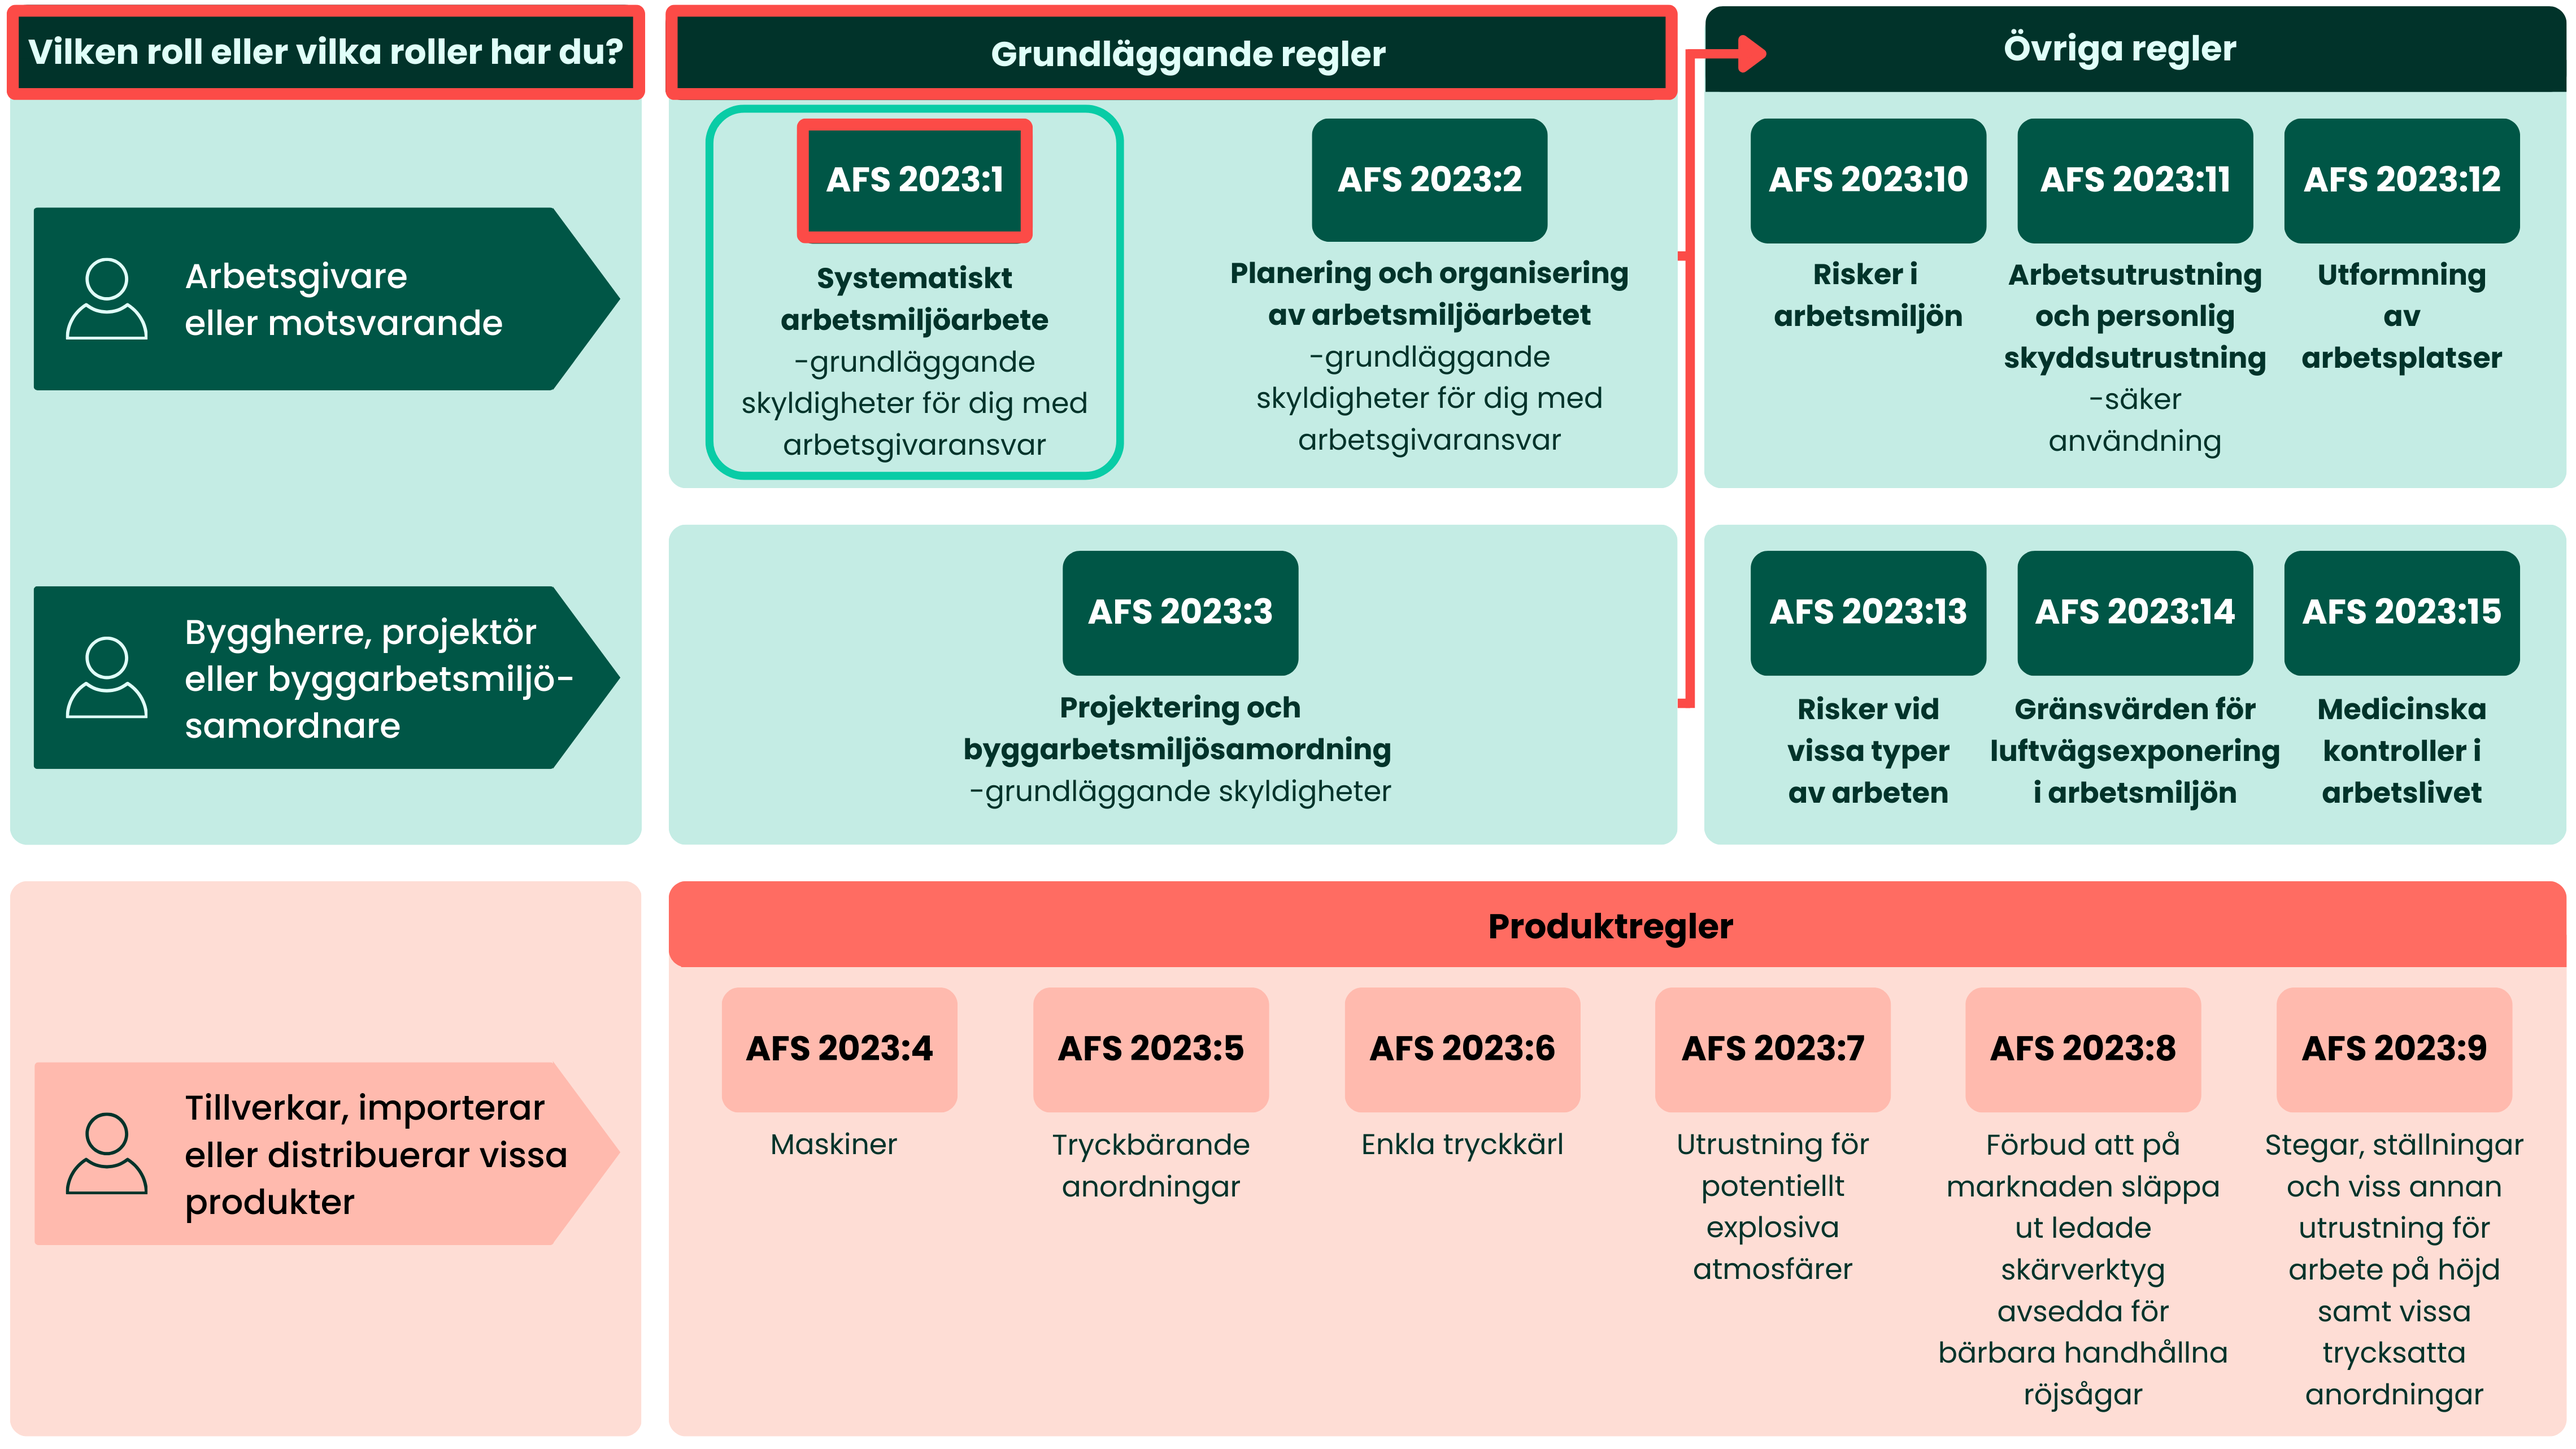
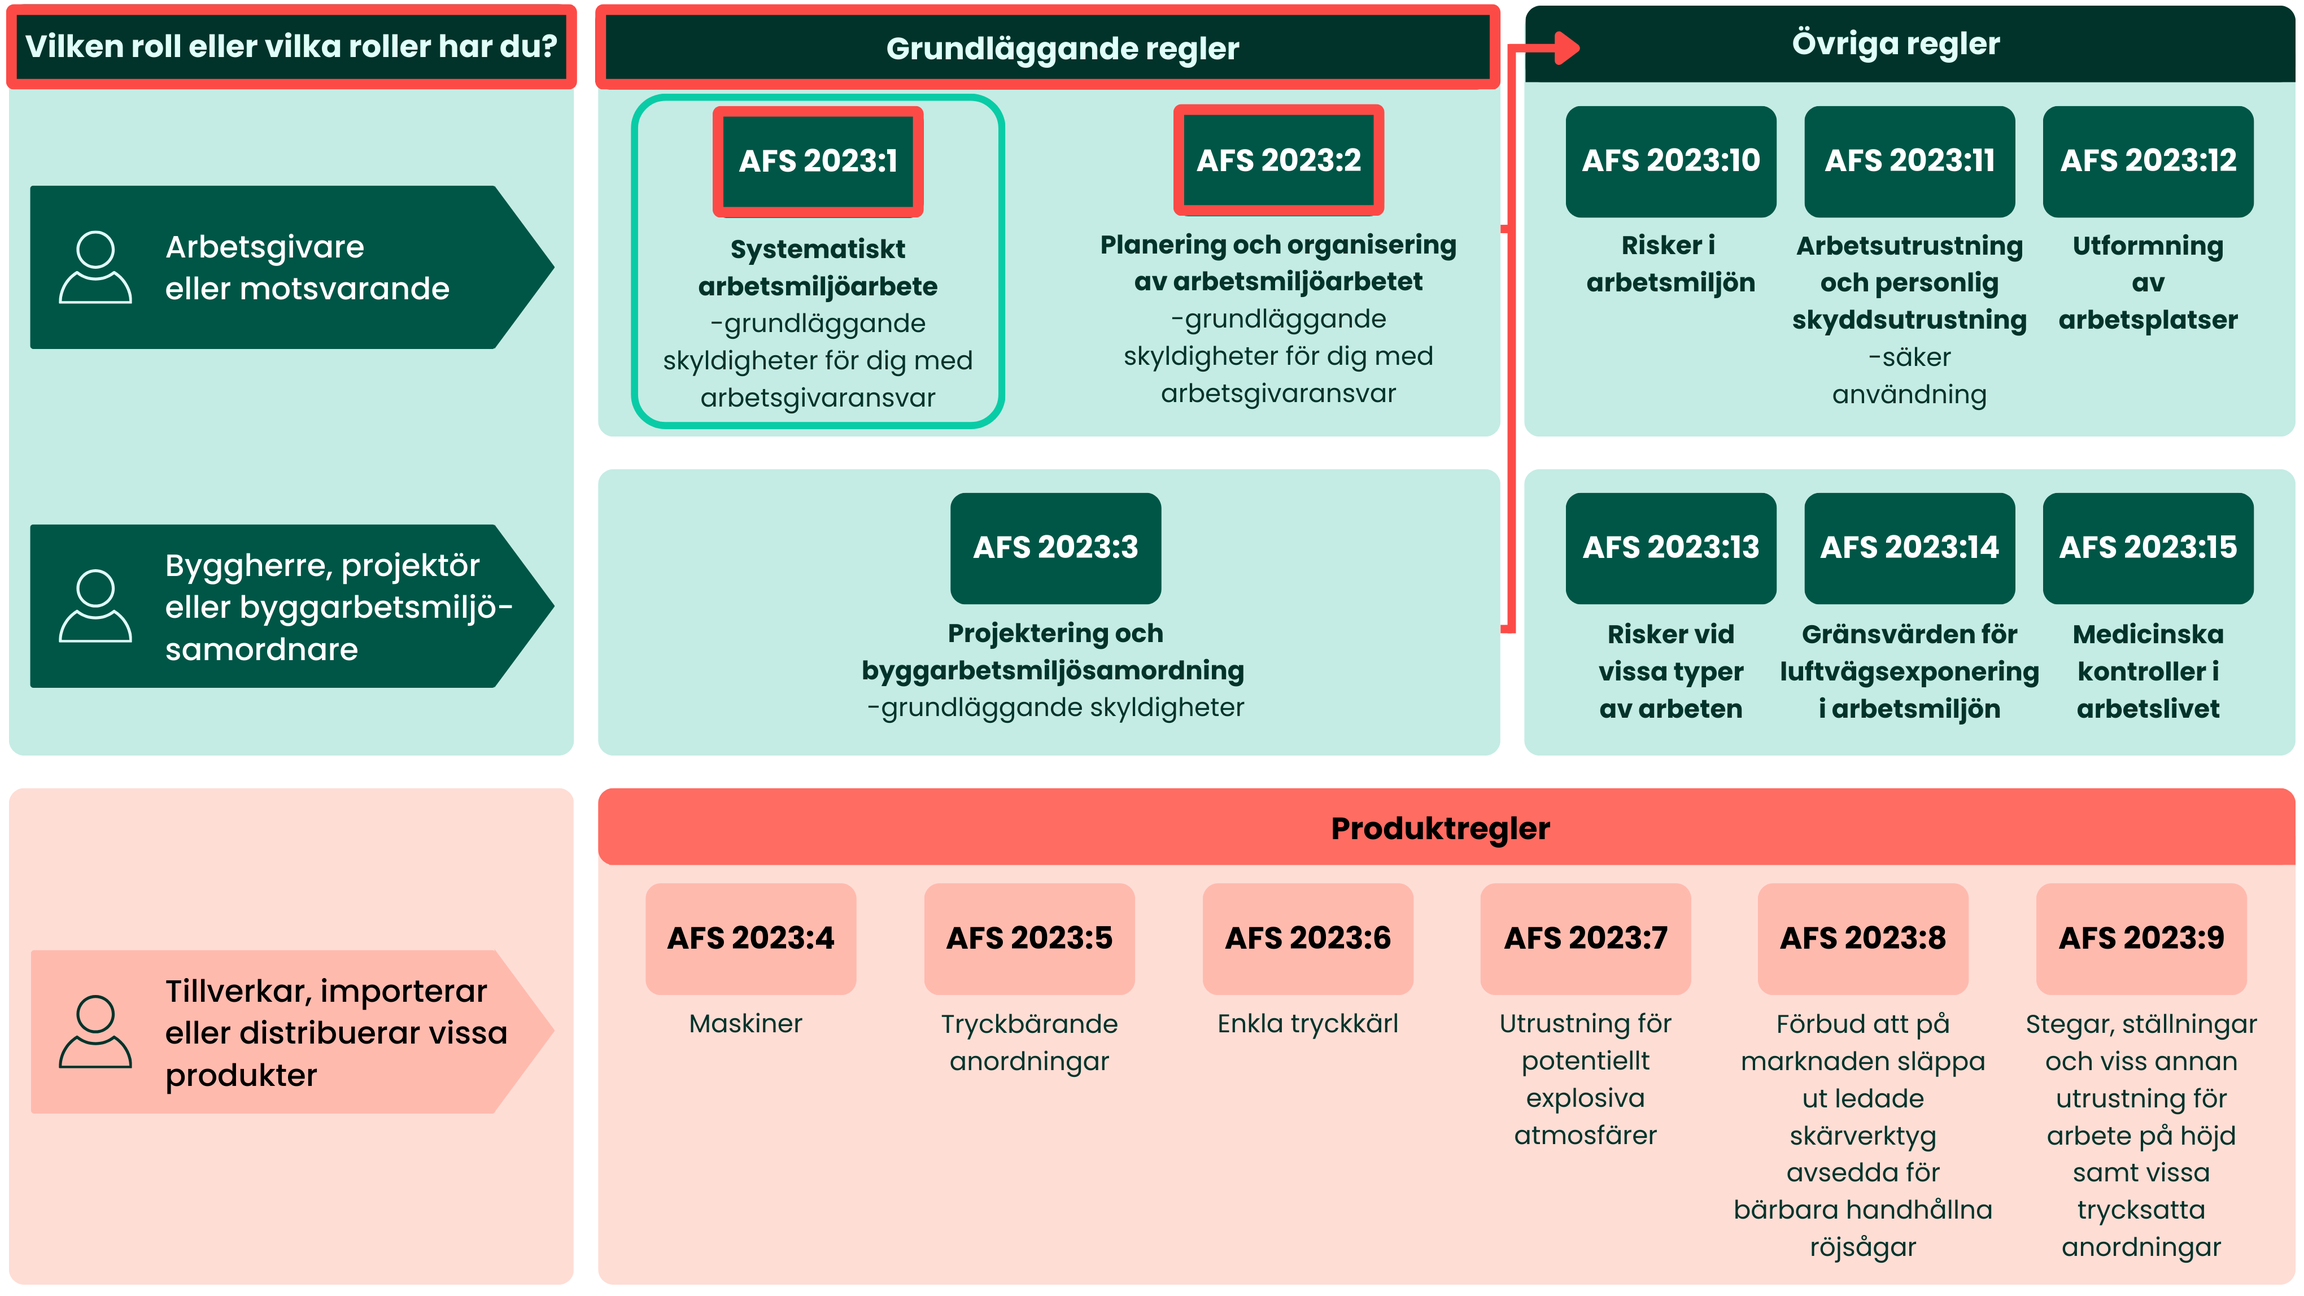
Uppdaterat

Changed region(s): [[0.498, 0.0619, 0.6225, 0.1856], [0.9961, 0.0309, 1.0, 0.0619], [0.3735, 0.2166, 0.4047, 0.2475]]

diff --git a/modul2/lektion6bild3.html b/modul2/lektion6bild3.html
@@ -1,0 +1,49 @@
+<!DOCTYPE html>
+<html lang="sv">
+<head>
+    <meta charset="UTF-8">
+    <meta name="viewport" content="width=device-width, initial-scale=1.0">
+    <title>Arbetsmiljöverkets rekommendationer</title>
+	<link rel="stylesheet" href="../styles.css">
+    <style>
+        
+        .container {
+            display: flex;
+            padding: 2% 0 0 0;
+            margin: 0;
+            flex-direction: column;
+            justify-content: center;
+            align-items: center;
+        }
+
+        h1, p {
+          text-align: center;
+        }
+
+        h1 {
+            margin-bottom: 5px;
+        }
+
+        p {
+            max-width: 70%;
+        }
+        
+        img {
+            width: 100%;
+
+        } 
+    
+    
+    </style>
+    
+</head>
+
+<body>
+    <div class="container">
+        <h1>Översikt över den nya regelstrukturen</h1>
+        
+        <img src="../images/oversiktbild3.png">
+     
+    </div>
+</body>
+</html>

diff --git a/modul2/lektion6bild4.html b/modul2/lektion6bild4.html
@@ -1,0 +1,48 @@
+<!DOCTYPE html>
+<html lang="sv">
+<head>
+    <meta charset="UTF-8">
+    <meta name="viewport" content="width=device-width, initial-scale=1.0">
+    <title>Arbetsmiljöverkets rekommendationer</title>
+	<link rel="stylesheet" href="../styles.css">
+    <style>
+        
+        .container {
+            display: flex;
+            padding: 2% 0 0 0;
+            margin: 0;
+            flex-direction: column;
+            justify-content: center;
+            align-items: center;
+        }
+
+        h1, p {
+          text-align: center;
+        }
+
+        h1 {
+            margin-bottom: 5px;
+        }
+
+        p {
+            max-width: 70%;
+        }
+        
+        img {
+            width: 100%;
+
+        } 
+    
+    
+    </style>
+    
+</head>
+
+<body>
+    <div class="container">
+        
+        <img src="../images/oversiktbild4.png">
+     
+    </div>
+</body>
+</html>

diff --git a/modul2/lektion6bild2.html b/modul2/lektion6bild2.html
@@ -41,8 +41,6 @@
 <body>
     <div class="container">
         <h1>Översikt över den nya regelstrukturen</h1>
-        <p><b>AFS 2023:1 Systematiskt arbetsmiljöarbete – Grundläggande skyldigheter för dig med
-        arbetsmiljöansvar</b> ersätter den tidigare <b>AFS 2001:1 Systematiskt arbetsmiljöarbete</b>.</p>
         
         <img src="../images/oversiktbild2.png">
      
